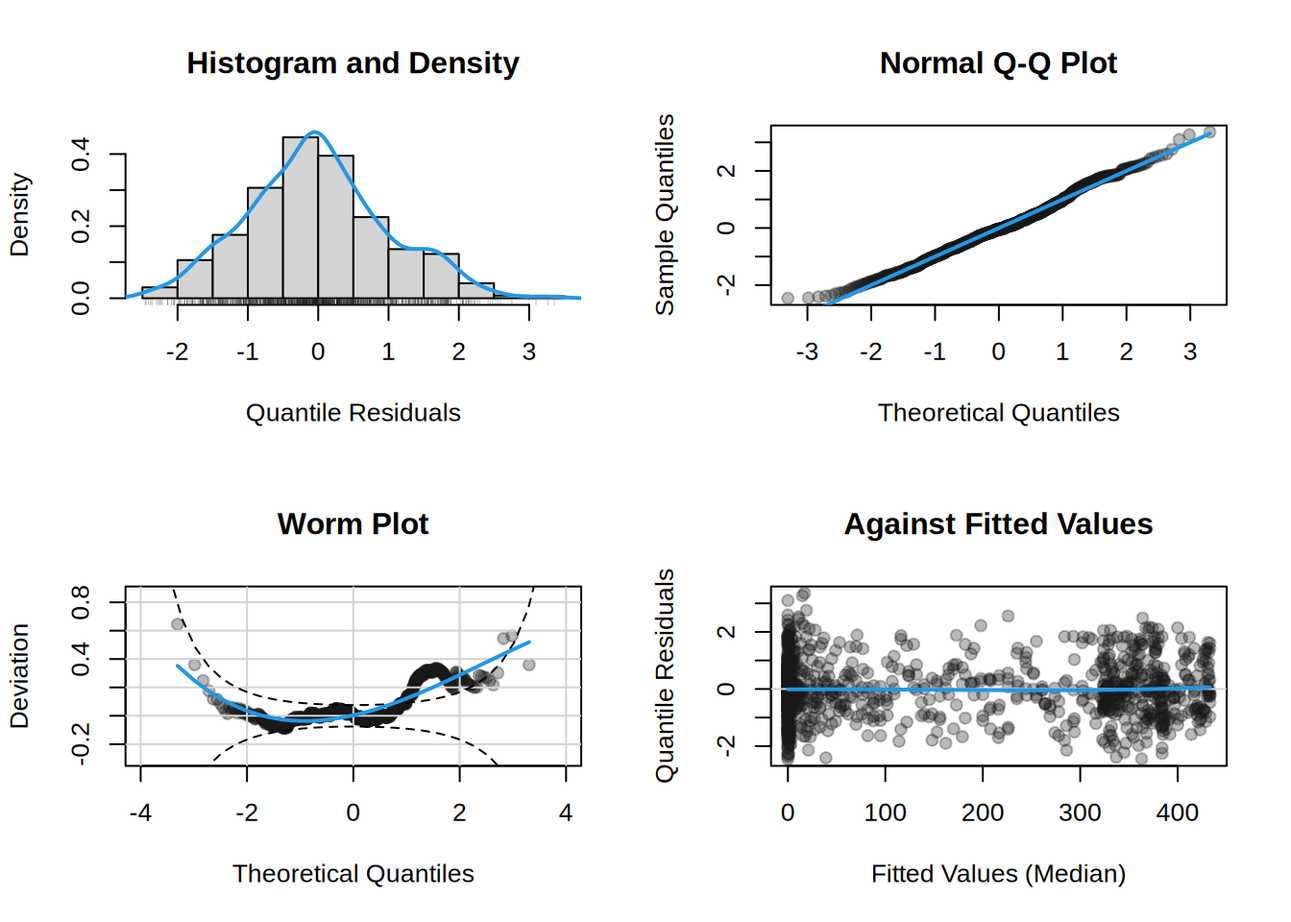
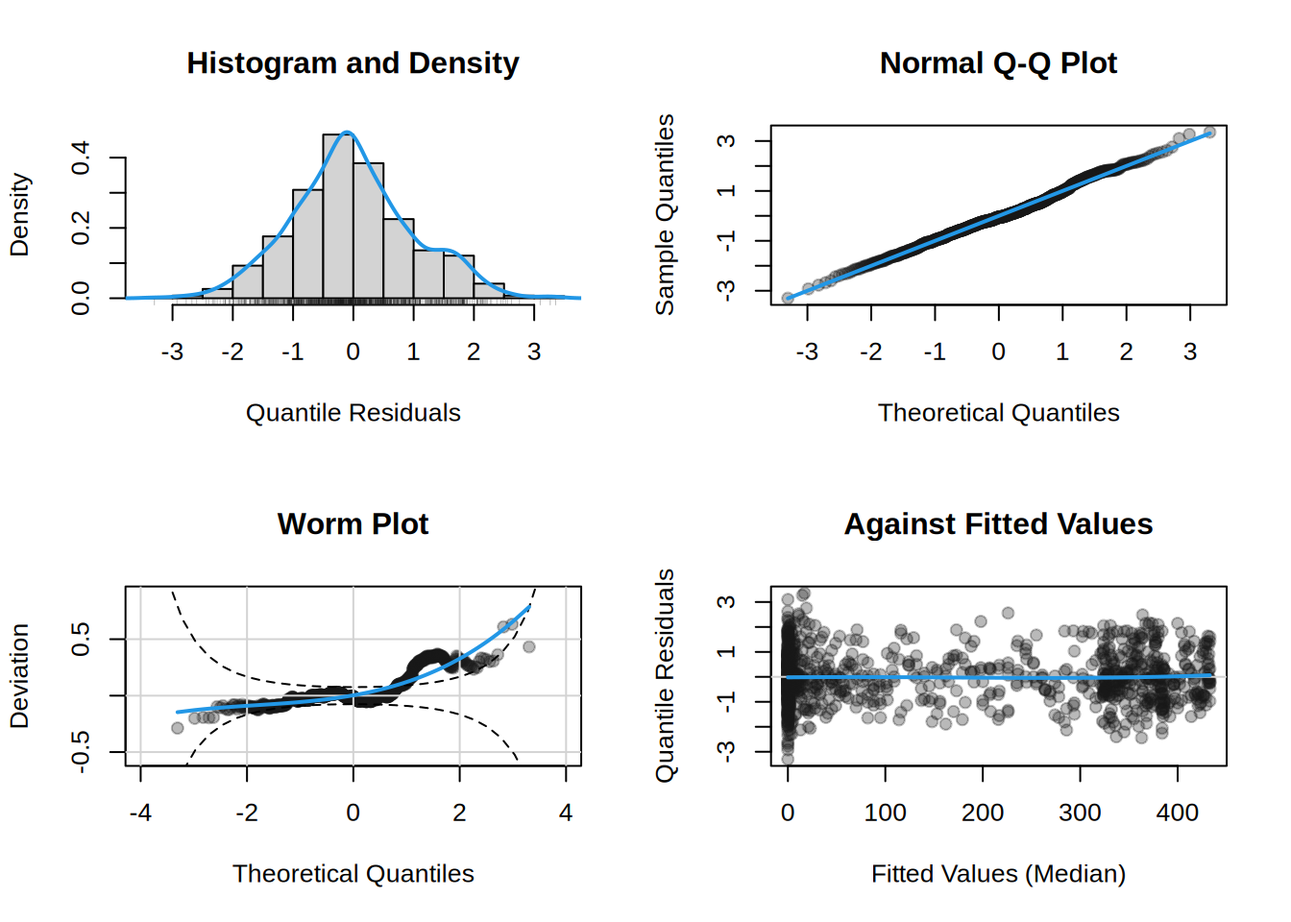
Deploying to gh-pages from @ gamlss-dev/gamlss2@c0ff751faee62fe69577b185f1ffa982d6d88a9c 🚀

diff --git a/vignettes/families.html b/vignettes/families.html
@@ -355,7 +355,7 @@ sigma.s(speed) 1.1500
 *--------
 n = 50 df =  4.59 res.df =  45.41
 Deviance = 395.9946 Null Dev. Red. = 14.99%
-AIC = 405.1673 elapsed =  0.13sec</code></pre>
+AIC = 405.1673 elapsed =  0.08sec</code></pre>
 </div>
 </div>
 <p><code>prodist()</code> performs the reverse operation: it extracts the fitted parameters and returns a vector of <code>distributions3</code> objects.</p>
@@ -402,9 +402,9 @@ AIC = 405.1673 elapsed =  0.13sec</code></pre>
 <div class="code-copy-outer-scaffold"><div class="sourceCode cell-code" id="cb23"><pre class="sourceCode r code-with-copy"><code class="sourceCode r"><span id="cb23-1"><a href="#cb23-1" aria-hidden="true" tabindex="-1"></a><span class="fu">random</span>(d, <span class="dv">2</span>)</span></code></pre></div><button title="Copy to Clipboard" class="code-copy-button"><i class="bi"></i></button></div>
 <div class="cell-output cell-output-stdout">
 <pre><code>        r_1       r_2
-1  15.39372  22.32749
-2  30.88334  45.32575
-3 110.28696 134.15888</code></pre>
+1  9.974337  23.18529
+2 65.095484  49.64292
+3 98.700462 138.58317</code></pre>
 </div>
 </div>
 <p>This gives the complete workflow:</p>
@@ -506,49 +506,59 @@ m          405.1673 4.586393</code></pre>
 <span id="cb34-9"><a href="#cb34-9" aria-hidden="true" tabindex="-1"></a>         <span class="at">rate =</span> <span class="dv">1</span> <span class="sc">/</span> (object<span class="sc">$</span>mu <span class="sc">*</span> object<span class="sc">$</span>sigma<span class="sc">^</span><span class="dv">2</span>))</span>
 <span id="cb34-10"><a href="#cb34-10" aria-hidden="true" tabindex="-1"></a>}</span>
 <span id="cb34-11"><a href="#cb34-11" aria-hidden="true" tabindex="-1"></a></span>
-<span id="cb34-12"><a href="#cb34-12" aria-hidden="true" tabindex="-1"></a>pdf.Gamma2 <span class="ot">&lt;-</span> <span class="cf">function</span>(object, y, <span class="at">log =</span> <span class="cn">FALSE</span>, ...) {</span>
-<span id="cb34-13"><a href="#cb34-13" aria-hidden="true" tabindex="-1"></a>  <span class="fu">pdf</span>(<span class="fu">gamma2_base</span>(object), y, <span class="at">log =</span> log, ...)</span>
-<span id="cb34-14"><a href="#cb34-14" aria-hidden="true" tabindex="-1"></a>}</span>
-<span id="cb34-15"><a href="#cb34-15" aria-hidden="true" tabindex="-1"></a>cdf.Gamma2 <span class="ot">&lt;-</span> <span class="cf">function</span>(object, y, ...) {</span>
-<span id="cb34-16"><a href="#cb34-16" aria-hidden="true" tabindex="-1"></a>  <span class="fu">cdf</span>(<span class="fu">gamma2_base</span>(object), y, ...)</span>
-<span id="cb34-17"><a href="#cb34-17" aria-hidden="true" tabindex="-1"></a>}</span>
-<span id="cb34-18"><a href="#cb34-18" aria-hidden="true" tabindex="-1"></a>quantile.Gamma2 <span class="ot">&lt;-</span> <span class="cf">function</span>(object, p, ...) {</span>
-<span id="cb34-19"><a href="#cb34-19" aria-hidden="true" tabindex="-1"></a>  <span class="fu">quantile</span>(<span class="fu">gamma2_base</span>(object), p, ...)</span>
-<span id="cb34-20"><a href="#cb34-20" aria-hidden="true" tabindex="-1"></a>}</span>
-<span id="cb34-21"><a href="#cb34-21" aria-hidden="true" tabindex="-1"></a>random.Gamma2 <span class="ot">&lt;-</span> <span class="cf">function</span>(object, n, ...) {</span>
-<span id="cb34-22"><a href="#cb34-22" aria-hidden="true" tabindex="-1"></a>  <span class="fu">random</span>(<span class="fu">gamma2_base</span>(object), n, ...)</span>
-<span id="cb34-23"><a href="#cb34-23" aria-hidden="true" tabindex="-1"></a>}</span>
-<span id="cb34-24"><a href="#cb34-24" aria-hidden="true" tabindex="-1"></a>mean.Gamma2 <span class="ot">&lt;-</span> <span class="cf">function</span>(object, ...) object<span class="sc">$</span>mu</span>
-<span id="cb34-25"><a href="#cb34-25" aria-hidden="true" tabindex="-1"></a>variance.Gamma2 <span class="ot">&lt;-</span> <span class="cf">function</span>(object, ...) object<span class="sc">$</span>mu<span class="sc">^</span><span class="dv">2</span> <span class="sc">*</span> object<span class="sc">$</span>sigma<span class="sc">^</span><span class="dv">2</span></span>
-<span id="cb34-26"><a href="#cb34-26" aria-hidden="true" tabindex="-1"></a>support.Gamma2 <span class="ot">&lt;-</span> <span class="cf">function</span>(object, ...) <span class="fu">c</span>(<span class="dv">0</span>, <span class="cn">Inf</span>)</span>
-<span id="cb34-27"><a href="#cb34-27" aria-hidden="true" tabindex="-1"></a></span>
-<span id="cb34-28"><a href="#cb34-28" aria-hidden="true" tabindex="-1"></a>score.Gamma2 <span class="ot">&lt;-</span> <span class="cf">function</span>(object, y, which, ...) {</span>
-<span id="cb34-29"><a href="#cb34-29" aria-hidden="true" tabindex="-1"></a>  mu <span class="ot">&lt;-</span> object<span class="sc">$</span>mu</span>
-<span id="cb34-30"><a href="#cb34-30" aria-hidden="true" tabindex="-1"></a>  sigma <span class="ot">&lt;-</span> object<span class="sc">$</span>sigma</span>
-<span id="cb34-31"><a href="#cb34-31" aria-hidden="true" tabindex="-1"></a>  <span class="cf">if</span>(which <span class="sc">==</span> <span class="st">"mu"</span>)</span>
-<span id="cb34-32"><a href="#cb34-32" aria-hidden="true" tabindex="-1"></a>    (y <span class="sc">-</span> mu) <span class="sc">/</span> (mu<span class="sc">^</span><span class="dv">2</span> <span class="sc">*</span> sigma<span class="sc">^</span><span class="dv">2</span>)</span>
-<span id="cb34-33"><a href="#cb34-33" aria-hidden="true" tabindex="-1"></a>  <span class="cf">else</span></span>
-<span id="cb34-34"><a href="#cb34-34" aria-hidden="true" tabindex="-1"></a>    <span class="dv">2</span> <span class="sc">/</span> sigma<span class="sc">^</span><span class="dv">3</span> <span class="sc">*</span> (y <span class="sc">/</span> mu <span class="sc">-</span> <span class="dv">1</span> <span class="sc">-</span> <span class="fu">log</span>(y <span class="sc">/</span> (mu <span class="sc">*</span> sigma<span class="sc">^</span><span class="dv">2</span>)) <span class="sc">+</span></span>
-<span id="cb34-35"><a href="#cb34-35" aria-hidden="true" tabindex="-1"></a>                 <span class="fu">digamma</span>(<span class="dv">1</span> <span class="sc">/</span> sigma<span class="sc">^</span><span class="dv">2</span>))</span>
-<span id="cb34-36"><a href="#cb34-36" aria-hidden="true" tabindex="-1"></a>}</span>
-<span id="cb34-37"><a href="#cb34-37" aria-hidden="true" tabindex="-1"></a></span>
-<span id="cb34-38"><a href="#cb34-38" aria-hidden="true" tabindex="-1"></a>hessian.Gamma2 <span class="ot">&lt;-</span> <span class="cf">function</span>(object, y, which, <span class="at">expected =</span> <span class="cn">TRUE</span>, ...) {</span>
-<span id="cb34-39"><a href="#cb34-39" aria-hidden="true" tabindex="-1"></a>  mu <span class="ot">&lt;-</span> object<span class="sc">$</span>mu</span>
-<span id="cb34-40"><a href="#cb34-40" aria-hidden="true" tabindex="-1"></a>  sigma <span class="ot">&lt;-</span> object<span class="sc">$</span>sigma</span>
-<span id="cb34-41"><a href="#cb34-41" aria-hidden="true" tabindex="-1"></a>  <span class="cf">if</span>(which <span class="sc">==</span> <span class="st">"mu"</span>)</span>
-<span id="cb34-42"><a href="#cb34-42" aria-hidden="true" tabindex="-1"></a>    <span class="dv">1</span> <span class="sc">/</span> (mu<span class="sc">^</span><span class="dv">2</span> <span class="sc">*</span> sigma<span class="sc">^</span><span class="dv">2</span>)</span>
-<span id="cb34-43"><a href="#cb34-43" aria-hidden="true" tabindex="-1"></a>  <span class="cf">else</span> <span class="cf">if</span>(which <span class="sc">==</span> <span class="st">"sigma"</span>)</span>
-<span id="cb34-44"><a href="#cb34-44" aria-hidden="true" tabindex="-1"></a>    <span class="dv">4</span> <span class="sc">/</span> sigma<span class="sc">^</span><span class="dv">6</span> <span class="sc">*</span> (<span class="fu">trigamma</span>(<span class="dv">1</span> <span class="sc">/</span> sigma<span class="sc">^</span><span class="dv">2</span>) <span class="sc">-</span> sigma<span class="sc">^</span><span class="dv">2</span>)</span>
-<span id="cb34-45"><a href="#cb34-45" aria-hidden="true" tabindex="-1"></a>  <span class="cf">else</span></span>
-<span id="cb34-46"><a href="#cb34-46" aria-hidden="true" tabindex="-1"></a>    <span class="fu">rep</span>(<span class="dv">0</span>, <span class="fu">length</span>(y))</span>
-<span id="cb34-47"><a href="#cb34-47" aria-hidden="true" tabindex="-1"></a>}</span>
-<span id="cb34-48"><a href="#cb34-48" aria-hidden="true" tabindex="-1"></a></span>
-<span id="cb34-49"><a href="#cb34-49" aria-hidden="true" tabindex="-1"></a>fGA2 <span class="ot">&lt;-</span> <span class="fu">family</span>(</span>
-<span id="cb34-50"><a href="#cb34-50" aria-hidden="true" tabindex="-1"></a>  <span class="fu">Gamma2</span>(),</span>
-<span id="cb34-51"><a href="#cb34-51" aria-hidden="true" tabindex="-1"></a>  <span class="at">links =</span> <span class="fu">c</span>(<span class="at">mu =</span> <span class="st">"log"</span>, <span class="at">sigma =</span> <span class="st">"log"</span>),</span>
-<span id="cb34-52"><a href="#cb34-52" aria-hidden="true" tabindex="-1"></a>  <span class="at">score =</span> <span class="cn">TRUE</span>, <span class="at">hessian =</span> <span class="cn">TRUE</span></span>
-<span id="cb34-53"><a href="#cb34-53" aria-hidden="true" tabindex="-1"></a>)</span>
-<span id="cb34-54"><a href="#cb34-54" aria-hidden="true" tabindex="-1"></a>fGA2</span></code></pre></div><button title="Copy to Clipboard" class="code-copy-button"><i class="bi"></i></button></div>
+<span id="cb34-12"><a href="#cb34-12" aria-hidden="true" tabindex="-1"></a>pdf.Gamma2 <span class="ot">&lt;-</span> <span class="cf">function</span>(object, y, <span class="at">log =</span> <span class="cn">FALSE</span>, <span class="at">elementwise =</span> <span class="cn">FALSE</span>, ...) {</span>
+<span id="cb34-13"><a href="#cb34-13" aria-hidden="true" tabindex="-1"></a>  <span class="fu">dgamma</span>(y, <span class="at">shape =</span> <span class="dv">1</span> <span class="sc">/</span> object<span class="sc">$</span>sigma<span class="sc">^</span><span class="dv">2</span>,</span>
+<span id="cb34-14"><a href="#cb34-14" aria-hidden="true" tabindex="-1"></a>         <span class="at">rate =</span> <span class="dv">1</span> <span class="sc">/</span> (object<span class="sc">$</span>mu <span class="sc">*</span> object<span class="sc">$</span>sigma<span class="sc">^</span><span class="dv">2</span>), <span class="at">log =</span> log)</span>
+<span id="cb34-15"><a href="#cb34-15" aria-hidden="true" tabindex="-1"></a>}</span>
+<span id="cb34-16"><a href="#cb34-16" aria-hidden="true" tabindex="-1"></a>log_pdf.Gamma2 <span class="ot">&lt;-</span> <span class="cf">function</span>(object, y, <span class="at">elementwise =</span> <span class="cn">FALSE</span>, ...) {</span>
+<span id="cb34-17"><a href="#cb34-17" aria-hidden="true" tabindex="-1"></a>  <span class="fu">dgamma</span>(y, <span class="at">shape =</span> <span class="dv">1</span> <span class="sc">/</span> object<span class="sc">$</span>sigma<span class="sc">^</span><span class="dv">2</span>,</span>
+<span id="cb34-18"><a href="#cb34-18" aria-hidden="true" tabindex="-1"></a>         <span class="at">rate =</span> <span class="dv">1</span> <span class="sc">/</span> (object<span class="sc">$</span>mu <span class="sc">*</span> object<span class="sc">$</span>sigma<span class="sc">^</span><span class="dv">2</span>), <span class="at">log =</span> <span class="cn">TRUE</span>)</span>
+<span id="cb34-19"><a href="#cb34-19" aria-hidden="true" tabindex="-1"></a>}</span>
+<span id="cb34-20"><a href="#cb34-20" aria-hidden="true" tabindex="-1"></a>cdf.Gamma2 <span class="ot">&lt;-</span> <span class="cf">function</span>(object, y, ...) {</span>
+<span id="cb34-21"><a href="#cb34-21" aria-hidden="true" tabindex="-1"></a>  <span class="fu">cdf</span>(<span class="fu">gamma2_base</span>(object), y, ...)</span>
+<span id="cb34-22"><a href="#cb34-22" aria-hidden="true" tabindex="-1"></a>}</span>
+<span id="cb34-23"><a href="#cb34-23" aria-hidden="true" tabindex="-1"></a>quantile.Gamma2 <span class="ot">&lt;-</span> <span class="cf">function</span>(object, p, ...) {</span>
+<span id="cb34-24"><a href="#cb34-24" aria-hidden="true" tabindex="-1"></a>  <span class="fu">quantile</span>(<span class="fu">gamma2_base</span>(object), p, ...)</span>
+<span id="cb34-25"><a href="#cb34-25" aria-hidden="true" tabindex="-1"></a>}</span>
+<span id="cb34-26"><a href="#cb34-26" aria-hidden="true" tabindex="-1"></a>random.Gamma2 <span class="ot">&lt;-</span> <span class="cf">function</span>(object, n, ...) {</span>
+<span id="cb34-27"><a href="#cb34-27" aria-hidden="true" tabindex="-1"></a>  <span class="fu">random</span>(<span class="fu">gamma2_base</span>(object), n, ...)</span>
+<span id="cb34-28"><a href="#cb34-28" aria-hidden="true" tabindex="-1"></a>}</span>
+<span id="cb34-29"><a href="#cb34-29" aria-hidden="true" tabindex="-1"></a>mean.Gamma2 <span class="ot">&lt;-</span> <span class="cf">function</span>(object, ...) object<span class="sc">$</span>mu</span>
+<span id="cb34-30"><a href="#cb34-30" aria-hidden="true" tabindex="-1"></a>variance.Gamma2 <span class="ot">&lt;-</span> <span class="cf">function</span>(object, ...) object<span class="sc">$</span>mu<span class="sc">^</span><span class="dv">2</span> <span class="sc">*</span> object<span class="sc">$</span>sigma<span class="sc">^</span><span class="dv">2</span></span>
+<span id="cb34-31"><a href="#cb34-31" aria-hidden="true" tabindex="-1"></a>support.Gamma2 <span class="ot">&lt;-</span> <span class="cf">function</span>(object, ...) <span class="fu">c</span>(<span class="dv">0</span>, <span class="cn">Inf</span>)</span>
+<span id="cb34-32"><a href="#cb34-32" aria-hidden="true" tabindex="-1"></a></span>
+<span id="cb34-33"><a href="#cb34-33" aria-hidden="true" tabindex="-1"></a>score.Gamma2 <span class="ot">&lt;-</span> <span class="cf">function</span>(object, y, which, ...) {</span>
+<span id="cb34-34"><a href="#cb34-34" aria-hidden="true" tabindex="-1"></a>  mu <span class="ot">&lt;-</span> object<span class="sc">$</span>mu</span>
+<span id="cb34-35"><a href="#cb34-35" aria-hidden="true" tabindex="-1"></a>  sigma <span class="ot">&lt;-</span> object<span class="sc">$</span>sigma</span>
+<span id="cb34-36"><a href="#cb34-36" aria-hidden="true" tabindex="-1"></a>  <span class="cf">if</span>(which <span class="sc">==</span> <span class="st">"mu"</span>)</span>
+<span id="cb34-37"><a href="#cb34-37" aria-hidden="true" tabindex="-1"></a>    (y <span class="sc">-</span> mu) <span class="sc">/</span> (mu<span class="sc">^</span><span class="dv">2</span> <span class="sc">*</span> sigma<span class="sc">^</span><span class="dv">2</span>)</span>
+<span id="cb34-38"><a href="#cb34-38" aria-hidden="true" tabindex="-1"></a>  <span class="cf">else</span></span>
+<span id="cb34-39"><a href="#cb34-39" aria-hidden="true" tabindex="-1"></a>    <span class="dv">2</span> <span class="sc">/</span> sigma<span class="sc">^</span><span class="dv">3</span> <span class="sc">*</span> (y <span class="sc">/</span> mu <span class="sc">-</span> <span class="dv">1</span> <span class="sc">-</span> <span class="fu">log</span>(y <span class="sc">/</span> (mu <span class="sc">*</span> sigma<span class="sc">^</span><span class="dv">2</span>)) <span class="sc">+</span></span>
+<span id="cb34-40"><a href="#cb34-40" aria-hidden="true" tabindex="-1"></a>                 <span class="fu">digamma</span>(<span class="dv">1</span> <span class="sc">/</span> sigma<span class="sc">^</span><span class="dv">2</span>))</span>
+<span id="cb34-41"><a href="#cb34-41" aria-hidden="true" tabindex="-1"></a>}</span>
+<span id="cb34-42"><a href="#cb34-42" aria-hidden="true" tabindex="-1"></a></span>
+<span id="cb34-43"><a href="#cb34-43" aria-hidden="true" tabindex="-1"></a>hessian.Gamma2 <span class="ot">&lt;-</span> <span class="cf">function</span>(object, y, which, <span class="at">expected =</span> <span class="cn">TRUE</span>, ...) {</span>
+<span id="cb34-44"><a href="#cb34-44" aria-hidden="true" tabindex="-1"></a>  mu <span class="ot">&lt;-</span> object<span class="sc">$</span>mu</span>
+<span id="cb34-45"><a href="#cb34-45" aria-hidden="true" tabindex="-1"></a>  sigma <span class="ot">&lt;-</span> object<span class="sc">$</span>sigma</span>
+<span id="cb34-46"><a href="#cb34-46" aria-hidden="true" tabindex="-1"></a>  <span class="cf">if</span>(which <span class="sc">==</span> <span class="st">"mu"</span>)</span>
+<span id="cb34-47"><a href="#cb34-47" aria-hidden="true" tabindex="-1"></a>    <span class="sc">-</span><span class="dv">1</span> <span class="sc">/</span> (mu<span class="sc">^</span><span class="dv">2</span> <span class="sc">*</span> sigma<span class="sc">^</span><span class="dv">2</span>)</span>
+<span id="cb34-48"><a href="#cb34-48" aria-hidden="true" tabindex="-1"></a>  <span class="cf">else</span> <span class="cf">if</span>(which <span class="sc">==</span> <span class="st">"sigma"</span>)</span>
+<span id="cb34-49"><a href="#cb34-49" aria-hidden="true" tabindex="-1"></a>    <span class="dv">4</span> <span class="sc">/</span> sigma<span class="sc">^</span><span class="dv">4</span> <span class="sc">-</span> <span class="dv">4</span> <span class="sc">/</span> sigma<span class="sc">^</span><span class="dv">6</span> <span class="sc">*</span> <span class="fu">trigamma</span>(<span class="dv">1</span> <span class="sc">/</span> sigma<span class="sc">^</span><span class="dv">2</span>)</span>
+<span id="cb34-50"><a href="#cb34-50" aria-hidden="true" tabindex="-1"></a>  <span class="cf">else</span></span>
+<span id="cb34-51"><a href="#cb34-51" aria-hidden="true" tabindex="-1"></a>    <span class="fu">rep</span>(<span class="dv">0</span>, <span class="fu">length</span>(y))</span>
+<span id="cb34-52"><a href="#cb34-52" aria-hidden="true" tabindex="-1"></a>}</span>
+<span id="cb34-53"><a href="#cb34-53" aria-hidden="true" tabindex="-1"></a></span>
+<span id="cb34-54"><a href="#cb34-54" aria-hidden="true" tabindex="-1"></a>fGA2 <span class="ot">&lt;-</span> <span class="fu">family</span>(</span>
+<span id="cb34-55"><a href="#cb34-55" aria-hidden="true" tabindex="-1"></a>  <span class="fu">Gamma2</span>(),</span>
+<span id="cb34-56"><a href="#cb34-56" aria-hidden="true" tabindex="-1"></a>  <span class="at">links =</span> <span class="fu">c</span>(<span class="at">mu =</span> <span class="st">"log"</span>, <span class="at">sigma =</span> <span class="st">"log"</span>),</span>
+<span id="cb34-57"><a href="#cb34-57" aria-hidden="true" tabindex="-1"></a>  <span class="at">score =</span> <span class="cn">TRUE</span>, <span class="at">hessian =</span> <span class="cn">TRUE</span>, <span class="at">expected =</span> <span class="cn">TRUE</span>,</span>
+<span id="cb34-58"><a href="#cb34-58" aria-hidden="true" tabindex="-1"></a>  <span class="at">initialize =</span> <span class="fu">list</span>(</span>
+<span id="cb34-59"><a href="#cb34-59" aria-hidden="true" tabindex="-1"></a>    <span class="at">mu =</span> <span class="cf">function</span>(y, ...) (y <span class="sc">+</span> <span class="fu">mean</span>(y)) <span class="sc">/</span> <span class="dv">2</span>,</span>
+<span id="cb34-60"><a href="#cb34-60" aria-hidden="true" tabindex="-1"></a>    <span class="at">sigma =</span> <span class="cf">function</span>(y, ...) <span class="fu">rep</span>(<span class="dv">1</span>, <span class="fu">length</span>(y))</span>
+<span id="cb34-61"><a href="#cb34-61" aria-hidden="true" tabindex="-1"></a>  )</span>
+<span id="cb34-62"><a href="#cb34-62" aria-hidden="true" tabindex="-1"></a>)</span>
+<span id="cb34-63"><a href="#cb34-63" aria-hidden="true" tabindex="-1"></a></span>
+<span id="cb34-64"><a href="#cb34-64" aria-hidden="true" tabindex="-1"></a><span class="fu">print</span>(fGA2)</span></code></pre></div><button title="Copy to Clipboard" class="code-copy-button"><i class="bi"></i></button></div>
 <div class="cell-output cell-output-stdout">
 <pre><code>Family: Gamma2 
 Link functions: log, log
@@ -561,36 +571,40 @@ Derivative functions:
  .. ..$ mu
  .. ..$ sigma</code></pre>
 </div>
-<div class="code-copy-outer-scaffold"><div class="sourceCode cell-code" id="cb36"><pre class="sourceCode r code-with-copy"><code class="sourceCode r"><span id="cb36-1"><a href="#cb36-1" aria-hidden="true" tabindex="-1"></a>m2 <span class="ot">&lt;-</span> <span class="fu">gamlss2</span>(</span>
-<span id="cb36-2"><a href="#cb36-2" aria-hidden="true" tabindex="-1"></a>  dist <span class="sc">~</span> <span class="fu">s</span>(speed) <span class="sc">|</span> <span class="fu">s</span>(speed),</span>
-<span id="cb36-3"><a href="#cb36-3" aria-hidden="true" tabindex="-1"></a>  <span class="at">data =</span> cars,</span>
-<span id="cb36-4"><a href="#cb36-4" aria-hidden="true" tabindex="-1"></a>  <span class="at">family =</span> fGA2,</span>
-<span id="cb36-5"><a href="#cb36-5" aria-hidden="true" tabindex="-1"></a>  <span class="at">trace =</span> <span class="cn">FALSE</span></span>
-<span id="cb36-6"><a href="#cb36-6" aria-hidden="true" tabindex="-1"></a>)</span>
-<span id="cb36-7"><a href="#cb36-7" aria-hidden="true" tabindex="-1"></a><span class="fu">summary</span>(m2)</span></code></pre></div><button title="Copy to Clipboard" class="code-copy-button"><i class="bi"></i></button></div>
+<div class="code-copy-outer-scaffold"><div class="sourceCode cell-code" id="cb36"><pre class="sourceCode r code-with-copy"><code class="sourceCode r"><span id="cb36-1"><a href="#cb36-1" aria-hidden="true" tabindex="-1"></a>air <span class="ot">&lt;-</span> <span class="fu">subset</span>(airquality, <span class="sc">!</span><span class="fu">is.na</span>(Ozone))</span>
+<span id="cb36-2"><a href="#cb36-2" aria-hidden="true" tabindex="-1"></a></span>
+<span id="cb36-3"><a href="#cb36-3" aria-hidden="true" tabindex="-1"></a>m <span class="ot">&lt;-</span> <span class="fu">gamlss2</span>(</span>
+<span id="cb36-4"><a href="#cb36-4" aria-hidden="true" tabindex="-1"></a>  Ozone <span class="sc">~</span> <span class="fu">s</span>(Temp) <span class="sc">+</span> <span class="fu">s</span>(Wind) <span class="sc">|</span> <span class="fu">s</span>(Temp),</span>
+<span id="cb36-5"><a href="#cb36-5" aria-hidden="true" tabindex="-1"></a>  <span class="at">data =</span> air,</span>
+<span id="cb36-6"><a href="#cb36-6" aria-hidden="true" tabindex="-1"></a>  <span class="at">family =</span> fGA2,</span>
+<span id="cb36-7"><a href="#cb36-7" aria-hidden="true" tabindex="-1"></a>  <span class="at">trace =</span> <span class="cn">FALSE</span></span>
+<span id="cb36-8"><a href="#cb36-8" aria-hidden="true" tabindex="-1"></a>)</span>
+<span id="cb36-9"><a href="#cb36-9" aria-hidden="true" tabindex="-1"></a></span>
+<span id="cb36-10"><a href="#cb36-10" aria-hidden="true" tabindex="-1"></a><span class="fu">summary</span>(m)</span></code></pre></div><button title="Copy to Clipboard" class="code-copy-button"><i class="bi"></i></button></div>
 <div class="cell-output cell-output-stdout">
 <pre><code>Call:
-gamlss2(formula = dist ~ s(speed) | s(speed), data = cars, family = fGA2, 
-    trace = FALSE)
+gamlss2(formula = Ozone ~ s(Temp) + s(Wind) | s(Temp), data = air, 
+    family = fGA2, trace = FALSE)
 ---
 Family: Gamma2 
 Link functions: log, log
 *--------
 Coefficients:
                   Estimate Std. Error t value Pr(&gt;|t|)    
-mu.(Intercept)     3.61983    0.04512   80.23  &lt; 2e-16 ***
-sigma.(Intercept) -1.05044    0.09764  -10.76 5.61e-14 ***
+mu.(Intercept)     3.53026    0.02105   167.7   &lt;2e-16 ***
+sigma.(Intercept) -0.99253    0.06362   -15.6   &lt;2e-16 ***
 ---
 Signif. codes:  0 '***' 0.001 '**' 0.01 '*' 0.05 '.' 0.1 ' ' 1
 ---
 Smooth terms:
-                  edf
-mu.s(speed)    2.3912
-sigma.s(speed) 1.0000
+                 edf
+mu.s(Temp)    7.8814
+mu.s(Wind)    3.2562
+sigma.s(Temp) 7.4967
 *--------
-n = 50 df =  5.39 res.df =  44.61
-Deviance = 392.9035 Null Dev. Red. = 14.42%
-AIC = 403.6859 elapsed =  0.16sec</code></pre>
+n = 116 df =  20.63 res.df =  95.37
+Deviance = 899.7073 Null Dev. Red. = 16.93%
+AIC = 940.9758 elapsed =  0.25sec</code></pre>
 </div>
 </div>
 <p>This pattern is useful when an existing distribution has the right likelihood but the wrong parameterization. A user-defined family can also be assembled directly as a <code>gamlss2.family</code>, as shown next.</p>
@@ -658,7 +672,7 @@ sigma.s(speed) 1.0000
 *--------
 n = 50 df =  4.44 res.df =  45.56
 Deviance = 396.3302 Null Dev. Red. = 14.92%
-AIC = 405.203 elapsed =  0.03sec</code></pre>
+AIC = 405.203 elapsed =  0.02sec</code></pre>
 </div>
 </div>
 <p>For a manually defined family, the minimum required interface is <code>family</code>, <code>names</code>, <code>links</code>, and <code>pdf()</code>. Derivative callbacks have the following shape:</p>

diff --git a/man/gamlss2.html b/man/gamlss2.html
@@ -816,7 +816,7 @@ sigma.s(Temp) 7.4967
 *--------
 n = 116 df =  20.63 res.df =  95.37
 Deviance = 899.7073 Null Dev. Red. = 16.93%
-AIC = 940.9758 elapsed =  0.24sec</code></pre>
+AIC = 940.9758 elapsed =  0.14sec</code></pre>
 </div>
 <div class="code-copy-outer-scaffold"><div class="sourceCode cell-code" id="cb6"><pre class="sourceCode r code-with-copy"><code class="sourceCode r"><span id="cb6-1"><a href="#cb6-1" aria-hidden="true" tabindex="-1"></a><span class="do">## plot parameter-specific effects</span></span>
 <span id="cb6-2"><a href="#cb6-2" aria-hidden="true" tabindex="-1"></a><span class="fu">plot</span>(m1, <span class="at">which =</span> <span class="st">"effects"</span>)</span></code></pre></div><button title="Copy to Clipboard" class="code-copy-button"><i class="bi"></i></button></div>
@@ -938,7 +938,7 @@ sigma.s(yday) 6.2095
 *--------
 n = 1057 df =  14.59 res.df =  1042.41
 Deviance = 10150.8818 Null Dev. Red. = 12.62%
-AIC = 10180.0654 elapsed =  0.10sec</code></pre>
+AIC = 10180.0654 elapsed =  0.07sec</code></pre>
 </div>
 <div class="code-copy-outer-scaffold"><div class="sourceCode cell-code" id="cb16"><pre class="sourceCode r code-with-copy"><code class="sourceCode r"><span id="cb16-1"><a href="#cb16-1" aria-hidden="true" tabindex="-1"></a><span class="do">## effect plots</span></span>
 <span id="cb16-2"><a href="#cb16-2" aria-hidden="true" tabindex="-1"></a><span class="fu">plot</span>(m2)</span></code></pre></div><button title="Copy to Clipboard" class="code-copy-button"><i class="bi"></i></button></div>

diff --git a/man/OL.html b/man/OL.html
@@ -772,7 +772,7 @@ Signif. codes:  0 '***' 0.001 '**' 0.01 '*' 0.05 '.' 0.1 ' ' 1
 *--------
 n = 72 df =  9 res.df =  63
 Deviance = 3479.1493 Null Dev. Red. = -2099.21%
-AIC = 3497.1493 elapsed =  0.02sec</code></pre>
+AIC = 3497.1493 elapsed =  0.01sec</code></pre>
 </div>
 <div class="code-copy-outer-scaffold"><div class="sourceCode cell-code" id="cb7"><pre class="sourceCode r code-with-copy"><code class="sourceCode r"><span id="cb7-1"><a href="#cb7-1" aria-hidden="true" tabindex="-1"></a><span class="do">## compare coefficients</span></span>
 <span id="cb7-2"><a href="#cb7-2" aria-hidden="true" tabindex="-1"></a><span class="fu">coef</span>(m1)</span></code></pre></div><button title="Copy to Clipboard" class="code-copy-button"><i class="bi"></i></button></div>

diff --git a/vignettes/firststeps.html b/vignettes/firststeps.html
@@ -362,7 +362,7 @@ sigma.s(yday)  5.092
 *--------
 n = 1057 df =  23.21 res.df =  1033.79
 Deviance = 10101.1641 Null Dev. Red. = 13.05%
-AIC = 10147.5794 elapsed =  0.07sec</code></pre>
+AIC = 10147.5794 elapsed =  0.05sec</code></pre>
 </div>
 </div>
 <p>Calling <code>plot()</code> without further arguments displays the estimated effects for all modeled distribution parameters.</p>

diff --git a/man/family.distribution.html b/man/family.distribution.html
@@ -643,6 +643,7 @@ distributions3_family(
   score = TRUE,
   hessian = FALSE,
   update = FALSE,
+  expected = FALSE,
   create_distribution = "structure",
   type = NULL,
   valid.response = NULL,
